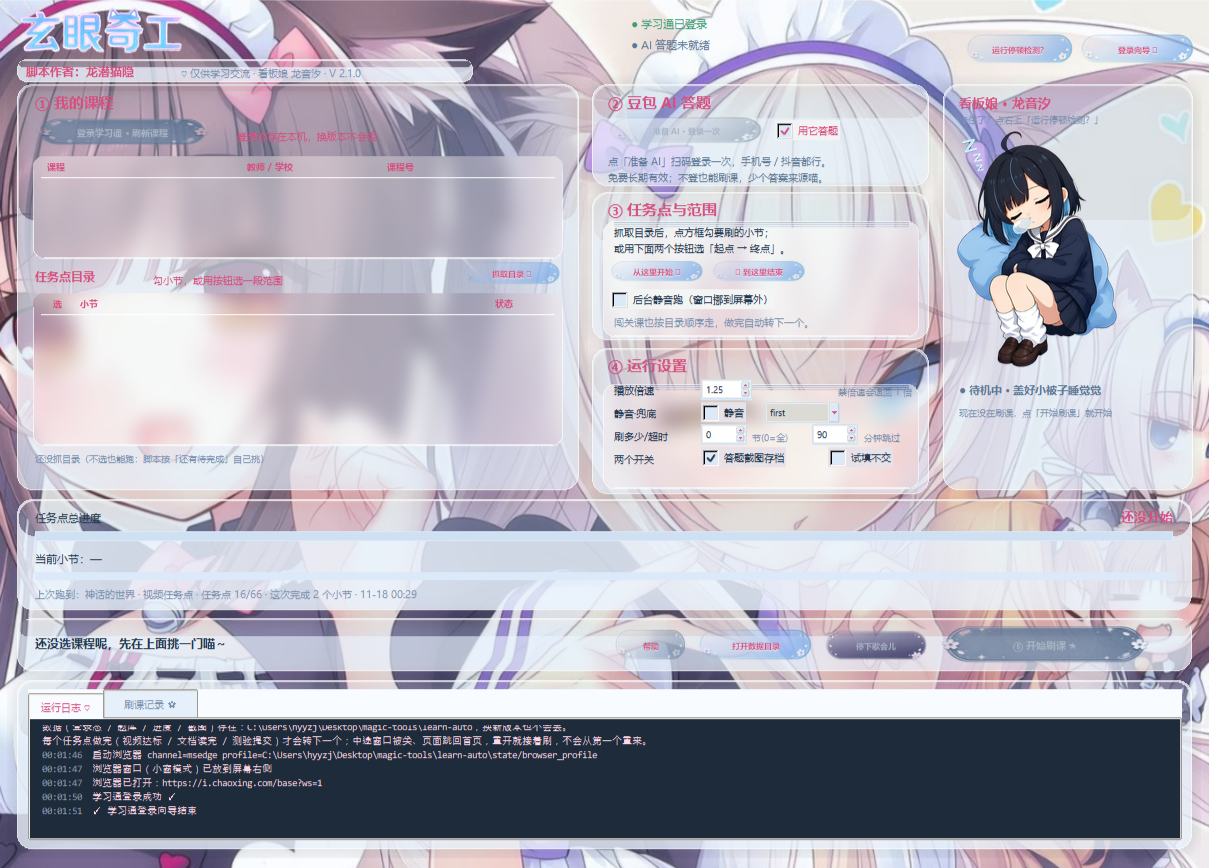
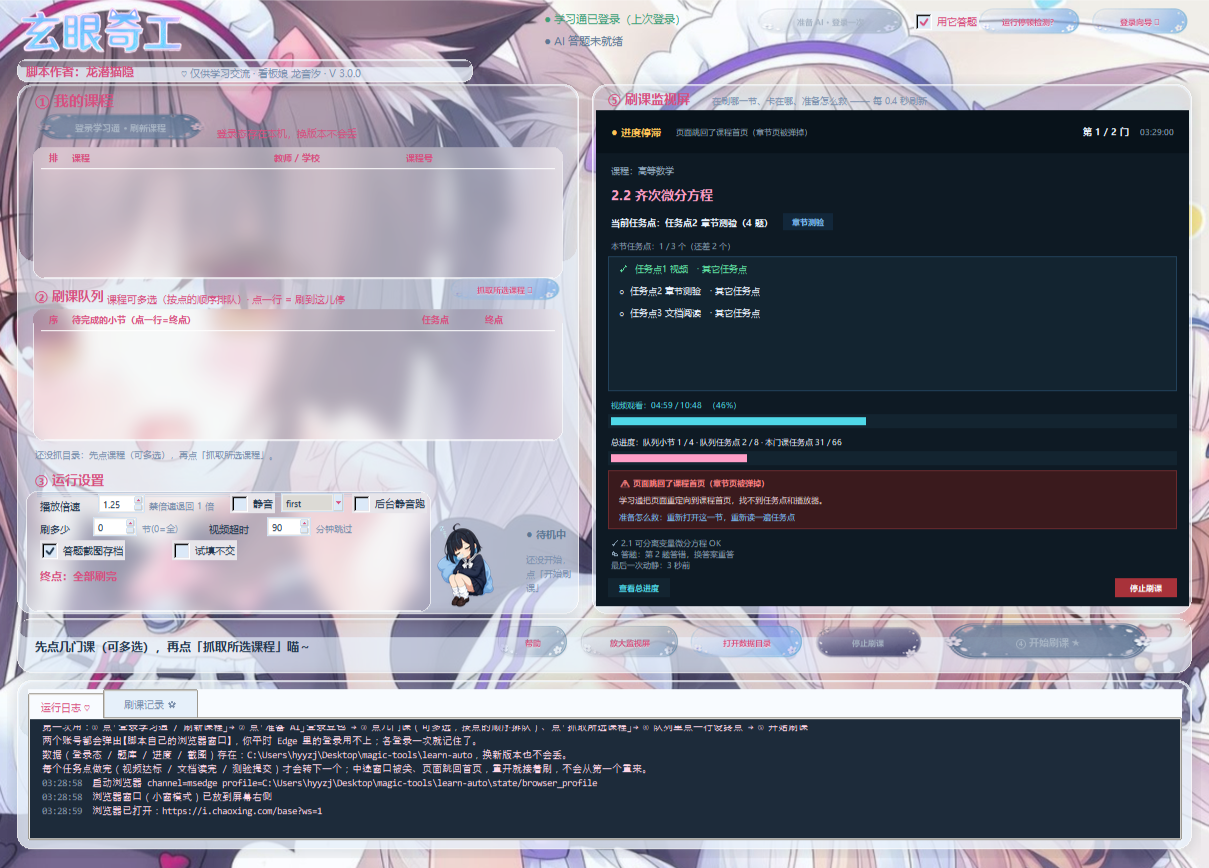
v3.0.0: queue from multiple courses, endpoint-only pick, embedded monitor panel, self-heal with Chinese errors

diff --git a/docs/versions/v3.0.0.md b/docs/versions/v3.0.0.md
@@ -1,0 +1,162 @@
+# v3.0.0 — 监视屏版：一条队列刷到底，卡住自己救
+
+发布日期：2026-11-19
+
+v2 系列解决的是「能不能把这一节做完」，v3 解决的是「一整门课、甚至好几门课，能不能不用管地
+刷完，以及出问题时我能不能一眼看出它在哪儿卡住、它准备怎么救」。
+
+于是多了一块**像系统监控一样的深色小屏**，直接嵌在主窗口右栏；多了一条 CLI 时代的写死流程
+换成了「还没做完的小节按目录顺序排成一条队列」；也多了一套「自检 → 中文报错 → 自己救一次」。
+
+## 为什么改
+
+用户的四条原话大致是：
+
+- 「进课之后先死等半分钟才进章节，别等了，直接进」
+- 「目录上要能看出每一节还剩几个任务点，别让我自己数」
+- 「视频看到一半弹出来的题，答错了你要自己换答案重答」
+- 「我要看着它刷，得有个小监视屏，能看出现在在干什么、卡在哪、准备怎么救」
+
+另外两个反复被提的点：**选课要能一次选好几门、按点的顺序排队**；**停止不要半路把视频扔下**。
+
+## 改了什么
+
+### 1. 进课直达章节（提速）
+
+新版泛雅点开课程先落在「课程首页」（`fanyav3 / studentCourse`），那里没有章节树。
+旧代码的做法是先死等 `.chapter_item` 三十秒，超时了再去点「章节」tab —— 用户看到的就是
+「点开课以后卡很久」。`nav.py` 把这两件事合成一个轮询：**tab 一露头就点，章节树一渲染
+出来立刻返回**；已经站在目录页上就直接读。
+
+### 2. 任务点级目录状态
+
+`tree.py` 从章节目录直接读每一节的「还剩几个任务点」：
+
+```html
+<input type="hidden" value="2" class="knowledgeJobCount">   <!-- 待完成任务点数 -->
+<span class="catalog_points_yi">2</span>                   <!-- 黄色徽章里的数字 -->
+```
+
+读到的数字进队列（`need`），锁着的小节带 `.icon-chuangguan`，标成「锁定 · 可预约」。
+读不到 `need` 的小节当成「至少还有 1 个」——**宁可白跑一趟，也不要把还剩一半的节当成做完**。
+
+### 3. 只选终点：一条「还没做完」的队列
+
+不再让用户勾起点 + 终点一堆小节。现在：**选几门课 → 抓取 → 队列里点一行 = 刷到这儿停**。
+
+`plan.py` 把「多门课 → 每门课的目录 → 每个还差任务点的小节」摊成一条有序队列：
+
+```
+课1 → 课1 的目录顺序 → 课2 → 课2 的目录顺序 → …
+```
+
+每条 step 自带课程信息（`courseid / clazzid / cpi / course / no / sect / need / locked / chapterid`），
+所以断点续跑时可以脱离「当前课程」单独执行。开始前会把「一共几个待完成任务点、终点之后
+还有几个不刷」写在确认框里。
+
+### 4. 视频弹题：答错了自己换答案重答
+
+`quiz.py` 里提交后看判分：判错就把这次选过的选项记下来，换一组再答，最多重答 3 次，
+每次换答案都写进日志（「答错了，换一个答案重答（第 2 次）」）。弹窗已经被学习通自己收起来
+（判错但放行）时不再重答。同一道题被反复弹出来也不会无限循环 —— 返回题目指纹，外层认得出。
+
+### 5. 监视屏：深色小屏，嵌在主窗口右栏
+
+`monitor.py` 是一层**线程安全的快照字典**：后台线程往里写（`set / section / task / points /
+video / problem`），界面每 0.4 秒读一次 `snap()`，谁也不用等谁（playwright 的 sync API 只能在
+一个线程里用，界面不能直接去问它）。
+
+`monitor_ui.py` 把它画成一块深色小屏：
+
+- 正在刷哪门课 / 目录里的哪一节 / 这一节第几个任务点 / 它是什么类型
+- 本节一共几个任务点，✓ 做完哪几个、还剩哪几个
+- 视频看到几分几秒（百分比）
+- 队列总进度：第几门课、第几节、第几个任务点
+- 出了问题是什么原因、准备怎么救
+- 最近几行动静
+
+深色不是为了好看：浅色玻璃上放这么大的字会糊，深色底 + 亮字一眼能看清。这块屏可以直接
+放成独立窗口（「放大监视屏」），也能拉到全屏；「查看总进度」按队列列出所有要刷的小节。
+
+### 6. 自检与中文报错，然后自己救一次
+
+`heartbeat.py` 知道「当前这一步是什么动作、正常要多久」，监视屏知道「上一次有动静是多少秒前」，
+两下一凑就能分出「在思考」和「真卡死」。`guard.py` 把问题归成五类，各配一个动作：
+
+| 问题 | 界面上的话 | 动作 |
+| --- | --- | --- |
+| `browser_closed` | 浏览器窗口被关掉了（或 Edge 自己崩了） | 重开浏览器，从这一节继续 |
+| `net` | 网络断了 / 学习通连不上 | 等几秒、刷新页面再试 |
+| `login` | 登录态失效了 | 重进课程；还不行就重新登录 |
+| `page_changed` | 学习通页面改版了，脚本没认出这块内容 | 跳过这一节，先把能做的做完 |
+| `stall` | 这一步卡住了，一直没有新动静 | 重新打开这一节，重读任务点 |
+
+同一节连续 3 次没做完就先放着（`MAX_STALL`），自愈最多 2 次（`MAX_HEAL`），救不回来才停。
+用户看到的永远是中文，不用看 traceback。
+
+### 7. 停止 = 做完手上这个任务点
+
+点「停止刷课」只是置一个旗子：脚本把当前这个任务点做完、复核它到底完成没有，然后才收工，
+不会半路把视频扔下。监视屏上会写「收到停止：做完手上这个任务点就停」。
+
+### 8. 顺手：app.py 拆成 app / app_run
+
+PyArmor 试用版对**单个 `.py`** 有加密量上限（实测 33.5KB 单独加密就报 `out of license`），
+app.py 到 v3 长到 33.5KB / 823 行。把「点开始之后发生的事」（起跑 / 停止 / 监视屏窗口 /
+收工汇报）挪进 `learn_auto/app_run.py` 的 `AppRun` mixin，`App` 还是
+`App(AppUI, AppHist, AppRun)` 一个类，只是方法分散在三个 mixin 里。app.py 回到 24KB。
+
+## 怎么验证
+
+**单测**（`tests/` 下都是假 DOM / 假快照，不联网）：
+
+| 脚本 | 结果 |
+| --- | --- |
+| `test_plan_v3.py` | `PLAN_V3_OK` —— 队列排序、终点截断、`count/total/endpoint`、按课分组、`guard.explain` 五类问题、`action_of` |
+| `test_cards_merge.py` | `CARDS_MERGE_OK` —— 假 DOM 复刻「只渲染一个容器 + 标签条两条」 |
+| `test_chain.py` | `CHAIN_OK ['11','22','33'] 6 1` + `NO_CHAIN_ON_ERROR_OK` |
+| `test_plan_queue.py` | `PLAN_QUEUE_OK` |
+| `test_pace.py` | `PACE_OK` |
+| `test_pump.py` | `PUMP_OK hint= 正在启动浏览器…` |
+
+**静态检查**：`python -m pyflakes app.py learn_auto pack` → 0 个 `undefined name`
+（只剩 intentional 的 unused import）。这一步是必须的：加密打包不会抓「名字在、定义没了」，
+v2.1.1 那次的 `_browser_closed` 就是这么漏出去的。
+
+**打包（PyArmor 9.3.0 trial + PyInstaller）**：
+
+- `build_enc.ps1` 成功，`dist\玄眼奇工\玄眼奇工.exe` 9,190,424 字节，版本资源 3.0.0.0
+- 加密产物里 `learn_auto\` 共 37 个模块文件（含新拆的 `app_run.py`）
+- 自检（`LEARN_AUTO_SELFTEST=1`）退出码 0，`%LOCALAPPDATA%\LearnAuto\state\selftest.txt`：
+  `TITLE 用户登录` / `URL https://passport2.chaoxing.com/login?fid=&refer=` / `OK`
+- `build_installer.ps1` 成功：`dist_inst\玄眼奇工安装程序.exe` 96.5 MB（101,164,253 字节）
+- 免安装包 `dist_inst\玄眼奇工-免安装-v3.0.0.zip` 88,582,165 字节（421 个条目，路径分隔符统一 `/`）
+- 界面：DPI-unaware 启动下窗口 1209×868（S≈0.877），右栏监视屏面板 593×496，
+  看板娘与状态文字不重叠
+
+## 附：v3 里为什么多了这么多模块
+
+| 新模块 | 干什么 |
+| --- | --- |
+| `plan.py` | 把多门课的目录摊成一条有序队列（只收「还没做完」的小节） |
+| `planrun.py` | 按队列执行：每步写监视屏、出错走 guard、停止做完当前任务点 |
+| `tree.py` | 从章节目录读「每节还剩几个任务点」 |
+| `nav.py` | 进课直达章节页（tab 与章节树合成一个轮询） |
+| `monitor.py` | 线程安全的快照字典（后台写、界面每 0.4 秒读） |
+| `monitor_ui.py` | 深色监视屏面板 / 独立窗口 / 总进度窗口 |
+| `heartbeat.py` | 每步打点 + 每个动作的正常耗时 |
+| `guard.py` | 停滞判定 + 中文报错 + 纠错动作 |
+| `app_run.py` | 从 `app.py` 拆出的运行控制（PyArmor 单文件上限） |
+
+## 升级
+
+直接覆盖安装（或解压免安装包替换目录），`%LOCALAPPDATA%\LearnAuto` 里的登录态、题库、
+进度、截图都保留。v2 的 `config.json` 直接能用，新加的字段会补默认值。
+
+## 还留着的问题
+
+- 监视屏是「看」用的，不能在里面手动点「重试 / 跳过」；要干预还是得点主窗口的按钮
+- 讨论、问卷、直播类任务点不代做（识别出来并跳过）
+- 填空 / 简答 / 计算靠模型现编，答得对不对看模型；连线、主观论述仍无解
+- 闯关课一次只解锁一两个小节，队列里剩下的会等到解锁后接着刷（不是卡住）
+- 同一节里如果有两个同类任务点（两个视频），任务点名重复时合并成一条显示

diff --git a/README.md b/README.md
@@ -1,10 +1,10 @@
 # 玄眼奇工（学习通自动挂机刷课答题工具）
 
-> 一个跑在桌面上的网课代办小工具：用自己的账号打开学习通，按章节顺序把**视频任务点**看到达标、把**文档任务点**（Word / PDF / PPT）滚到完成、把**章节测验**答完并提交，把分数记下来。
+> 一个跑在桌面上的网课代办小工具：用自己的账号打开学习通，选几门课（可多选、按点的顺序排队），点一行当终点，剩下的交给一条队列 —— 按目录顺序把**视频任务点**看到达标、把**文档任务点**（Word / PDF / PPT）滚到完成、把**章节测验**答完并提交。主窗口右栏嵌着一块深色**监视屏**，实时显示它在刷哪一节、卡在哪、准备怎么救。
 >
 > **这个仓库只公开它怎么做到的**：架构、原理、用到的工具、当前版本的局限，以及少量可以独立阅读的代码片段。**不提供**可直接运行的完整源码、打包好的 exe、任何登录态或题库数据。
 
-当前公开版本：**v2.1.2**（[更新日志](CHANGELOG.md) · [版本索引](docs/versions/README.md)）
+当前公开版本：**v3.0.0**（[更新日志](CHANGELOG.md) · [版本索引](docs/versions/README.md)）
 
 ![主界面](assets/screenshot.png)
 
@@ -15,7 +15,9 @@
 | 能力 | 说明 |
 | --- | --- |
 | 自动登录 | 首次运行弹「登录向导」：学习通二维码（自动勾「下次自动登录」）/ 账号密码小窗 + 豆包（抖音扫码）二维码，都嵌在脚本窗口里 |
-| 找课、找小节 | 读课程列表 → 读章节树 → 按「任务点未完成 + 顺序」挑出该做的那一节（闯关模式下只挑已解锁的） |
+| 多课顺序队列 | 课程列表里点几门课（按点击顺序排队）→ 一次抓完 → 把每门课「还没做完的小节」按目录顺序串成一条队列：课1 → 课1 的目录顺序 → 课2 → … |
+| 任务点级目录状态 | 从章节目录直接读每一节「还剩几个任务点」（`knowledgeJobCount` / 徽章数字），锁着的小节标「锁定 · 可预约」；读不到的当成「至少还有 1 个」，不把还剩一半的节当做完 |
+| 进课直达章节 | 新版泛雅点开课先落在「课程首页」，脚本把「点『章节』tab」和「等章节树渲染」合成一个轮询：tab 一露头就点，树一出来立刻读，不再死等 30 秒 |
 | 看视频 | 打开小节 → 找到 video → 播放 → 保活（防「离开页面暂停」）→ 弹窗提问自动作答 |
 | 判定视频达标 | 以学习通自己的任务点图标（ans-job-finished）为准；播到 91% 先问一次，没算完成就播到 96% 再问，仍没完成才播到尾 |
 | 章节测验 | 解析题干与选项 → 还原字体加密 → 逐题取答案 → 逐题勾选 → **自检「每题都选上了吗」** → 提交 → 读分 → 不到 80 分找「重做」入口 |
@@ -24,7 +26,11 @@
 | 不交白卷 | 一道都没答上 / 有题没选上 / 超过一半是瞎蒙 → 宁可不交，避免留下 0 分记录 |
 | 记录 | 进度条、当前小节、「上次跑到哪个任务点」、刷课记录（优秀 / 及格 / 不及格）都留在本地 |
 | 目录实时同步 | 一个任务点确认完成才转下一个；每轮重扫目录，服务端已完成的小节自动记进本地进度；页面被弹回首页会自己重新进课 |
-| 起止范围 | 抓整门课的章节树到窗口：勾小节，或点「从这里开始 / 到这里结束」按目录顺序选一段（含两端）；已完成的小节不选，锁着的小节标「锁定 · 可预约」 |
+| 只选终点 | 队列里点一行 = 刷到这儿停（不点 = 全刷）；开始前告诉你一共几个待完成任务点、终点之后还有几个不刷 |
+| 视频弹题自纠错 | 弹题答错就换一组答案重答，最多 3 次；同一道题反复弹出不会无限循环（返回题目指纹） |
+| 监视屏 | 深色小屏嵌在主窗口右栏（也能放大成独立窗口 / 拉全屏）：哪门课、哪一节、第几个任务点、本节还剩哪几个、视频看到几分几秒、队列总进度；配一个「查看总进度」按队列列出所有要刷的小节 |
+| 自检 + 中文报错 + 自续跑 | 分得清「在思考」和「真卡死」：5 类问题（浏览器被关 / 断网 / 登录失效 / 页面改版 / 停滞）各配一个动作，自己救一次（重开这一节 / 刷新 / 重进课程 / 跳过），同一节最多自愈 2 次，救不回来才停 |
+| 停止不半路扔下 | 点「停止刷课」只是置旗子：做完手上这个任务点、复核它完成没有，然后才收工 |
 | 后台静默 | 浏览器窗口挪到屏幕外 + 关掉后台节流 + 焦点模拟，可以一边干别的事 |
 
 ---
@@ -37,27 +43,23 @@ flowchart TD
     B -- 否 --> C[登录向导：学习通 + 豆包 二维码]
     C --> D[课程列表]
     B -- 是 --> D
-    D --> E[章节树扫描<br/>任务点 N/M、哪些已解锁]
-    E --> F[挑一节：第一个没完成的]
-    F --> G[读本节任务点条<br/>视频 / 文档 / 章节测验 / 填空简答]
-    G --> H{任务点都已完?}
-    H -- 是 --> F
-    H -- 否 --> I[打开视频卡片]
-    I --> J[播放 + 保活 + 盯弹题]
-    J --> K{到 91% 了?}
-    K -- 是 --> L{任务点图标已完成?}
-    L -- 否 --> M[继续播到 96% 再问]
-    L -- 是 --> N[暂停视频，切章节测验]
-    K -- 否 --> J
-    N --> O[解析题目 / 还原字体加密]
-    O --> P[逐题取答案：题库 → 豆包]
-    P --> Q[逐题勾选 + 自检]
-    Q --> R{全部选上且不是瞎蒙?}
-    R -- 否 --> S[不提交，记「没交」，下轮再来]
-    R -- 是 --> T[提交 → 读分]
-    T --> U{≥80% ?}
-    U -- 是 --> V[记「通过」]
-    U -- 否 --> W[找重做入口，只报告不代按]
+    D --> E[读每门课的章节目录<br/>每节还剩几个任务点、哪些已解锁]
+    E --> F[排成一条队列：课1 → 目录顺序 → 课2 → …<br/>只收「还没做完」的小节]
+    F --> G[队列里点一行 = 刷到这儿停]
+    G --> H[取队列下一步，进课直达章节页]
+    H --> I[读本节任务点条<br/>视频 / 文档 / 章节测验 / 填空简答]
+    I --> J{任务点都已完?}
+    J -- 是 --> K{队列还有?}
+    K -- 是 --> H
+    K -- 否 --> Z[收工汇报]
+    J -- 否 --> L[做下一个任务点]
+    L --> M[视频：播放 + 保活 + 弹题自纠错<br/>文档：滚到底 / 测验：题库 → 豆包作答]
+    M --> N[复核任务点图标是否已完成]
+    N --> O{完成了?}
+    O -- 是 --> J
+    O -- 否 --> P[自检：中文写清原因，自己救一次<br/>重开这一节 / 刷新 / 重进课程 / 跳过]
+    P --> H
+    L -.实时写快照.-> X[监视屏：哪门课 / 哪一节 / 第几个任务点<br/>本节还剩哪些 / 视频进度 / 队列总进度]
 ```
 
 深入细节看这些文档：
@@ -97,7 +99,8 @@ flowchart TD
 7. **浏览器窗口不能最小化**。学习通会判「离开页面」，任务点可能不计数。
 8. **有风控与被封风险**。走的是真实页面、有随机停顿，但同一账号多设备 / 异常速度仍可能被识别，风险自担。
 9. **只处理「视频 / 文档 / 章节测验 / 填空·简答·计算」这几类任务点**。讨论、问卷、直播不在覆盖范围（会识别并跳过）。
-10. **依赖 Edge**。没装 Edge 的机器要改 browser.channel。
+10. **监视屏只用来「看」**。它显示状态、原因和「准备怎么救」，但不能在里面点重试 / 跳过 / 换节 —— 要干预还是点主窗口的按钮。
+11. **依赖 Edge**。没装 Edge 的机器要改 browser.channel。
 
 > 更细的局限、以及哪些问题我根本不打算解决，见 [docs/limitations.md](docs/limitations.md)。
 
@@ -109,6 +112,7 @@ flowchart TD
 
 | 版本 | 时间 | 主题 | 说明 |
 | --- | --- | --- | --- |
+| [v3.0.0](docs/versions/v3.0.0.md) | 2026-11-19 | 监视屏版 | 多课顺序队列 + 只选终点 + 任务点级目录状态 + 视频弹题自纠错 + 主窗口内嵌深色监视屏 + 自检中文报错自续跑；停止改为做完当前任务点 |
 | [v2.1.2](docs/versions/v2.1.2.md) | 2026-11-19 | 修复版 | 修「看完视频就收工」：任务点只看已渲染容器 → 改成标签条 ∪ 容器；点标签的 JS 没接参数；测验没读到题目不再算做完 |
 | [v2.1.1](docs/versions/v2.1.1.md) | 2026-11-19 | 修复版 | 修「点开任务点就崩」的两个漏定义；顺手修两处同类未定义名 |
 | [v2.1.0](docs/versions/v2.1.0.md) | 2026-11-19 | v2 重置版 | 任务点按类型做（视频 / 文档 / 测验 / 填空简答）、目录实时同步、去掉计时休息、起止范围自选、界面与 logo 重做 |

diff --git a/CHANGELOG.md b/CHANGELOG.md
@@ -1,5 +1,19 @@
 # 更新日志
 
+## [v3.0.0] - 2026-11-19
+
+一句话：**选几门课、点一行当终点，剩下的交给一条队列；主窗口右栏多了一块像监控一样的小屏，卡了自己救。**
+
+- 进课直达章节：不再先死等 30 秒章节树，tab 一露头就点，章节树渲染出来立刻读
+- 任务点级目录状态：从章节目录直接读「每节还剩几个任务点」，锁着的小节标「锁定 · 可预约」
+- 只选终点：不再勾起点终点，脚本把每门课**还没做完的**小节按目录顺序排成一条队列，可一次选好几门课
+- 视频弹题答错自动换答案重答（最多 3 次），同一题反复弹出不会无限循环
+- 新增监视屏：深色小屏嵌在主窗口右栏（也可放大成独立窗口），实时显示哪门课、哪一节、第几个任务点、本节还剩什么、视频进度、队列总进度
+- 自检与中文报错：5 类问题（浏览器被关 / 断网 / 登录失效 / 页面改版 / 停滞）各配一个动作，自己救一次，救不回来才停（同一节最多自愈 2 次）
+- 停止语义改了：点「停止刷课」= 做完手上这个任务点、复核完成后再停，不半路扔下视频
+- app.py 拆出 `learn_auto/app_run.py`（PyArmor 试用版对单文件加密量有上限，app.py 已踩线）
+- 细节见 `docs/versions/v3.0.0.md`
+
 ## [v2.1.2] - 2026-11-19
 
 一句话：**视频播完就收工、章节测验一次没打开 —— 修好了，现在标签条上的任务点会挨个做完。**

diff --git a/docs/versions/README.md b/docs/versions/README.md
@@ -4,6 +4,7 @@
 
 | 版本 | 日期 | 主题 | 一句话 |
 | --- | --- | --- | --- |
+| [v3.0.0](v3.0.0.md) | 2026-11-19 | 监视屏版 | 多课顺序队列 + 只选终点 + 任务点级目录状态 + 视频弹题自纠错 + 内嵌深色监视屏 + 自检中文报错自续跑；停止改为做完当前任务点 |
 | [v2.1.2](v2.1.2.md) | 2026-11-19 | 修复版 | 修「看完视频就收工、章节测验被漏掉」：任务点全集改成「标签条 ∪ 已渲染容器」，任务点标签 JS 补上参数，测验没读到题目不再算做完 |
 | [v2.1.1](v2.1.1.md) | 2026-11-19 | 修复版 | 修「点开任务点就崩」：任务点完成判定忘了 `return check`、浏览器关闭判定 `_browser_closed` 定义丢了；顺手修 `short` / `blur` 未定义 |
 | [v2.1.0](v2.1.0.md) | 2026-11-19 | v2 重置版 | 任务点按类型做（视频 / 文档 / 测验 / 填空简答）、目录实时同步、去掉计时休息、起止范围自选、界面与 logo 重做 |
